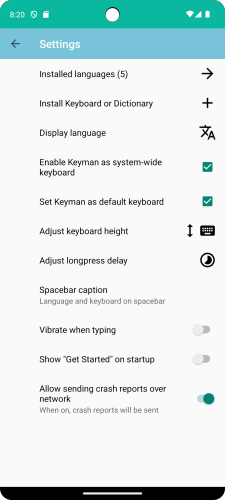
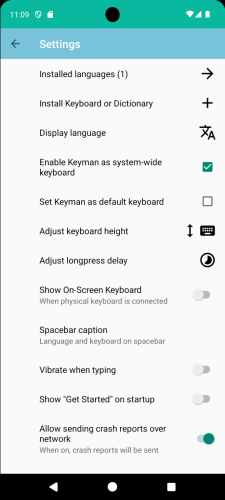
auto: Keyman for android help deployment

diff --git a/products/android/19.0/basic/config/index.md b/products/android/19.0/basic/config/index.md
@@ -49,6 +49,9 @@ Click on this to [adjust the keyboard height](adjust-keyboard-height).
 
 Click on this to [adjust the delay time](adjust-longpress-delay) for a longpress gesture.
 
+## Show On-Screen Keyboard
+By default, Android 16 (Baklava) and later versions won't display the On-Screen keyboard if a physical keyboard is connected. When enabled, show the Keyman system keyboard even if a physical keyboard is connected.
+
 ## Spacebar Caption
 Click on this to [change the displayed keyboard name](spacebar-caption) on the spacebar.
 
